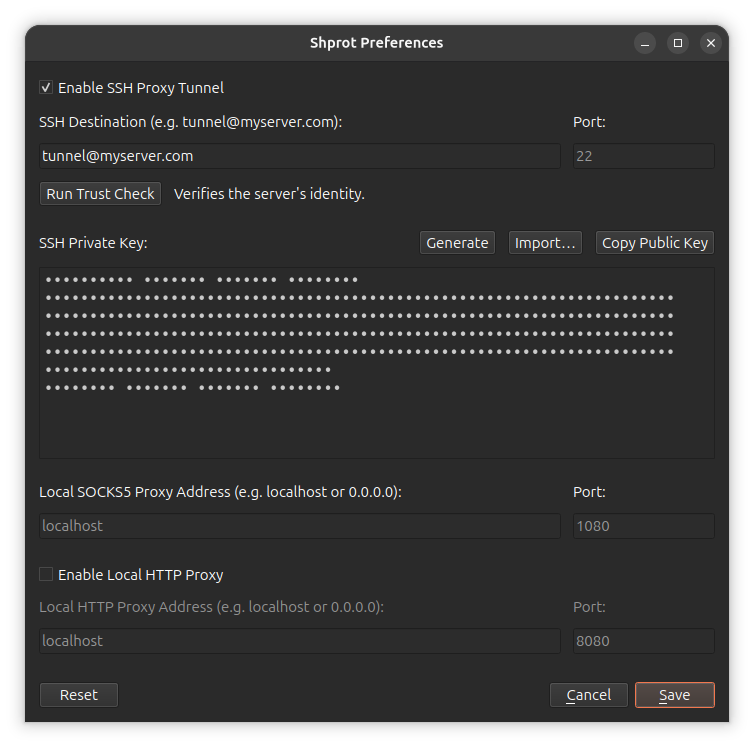
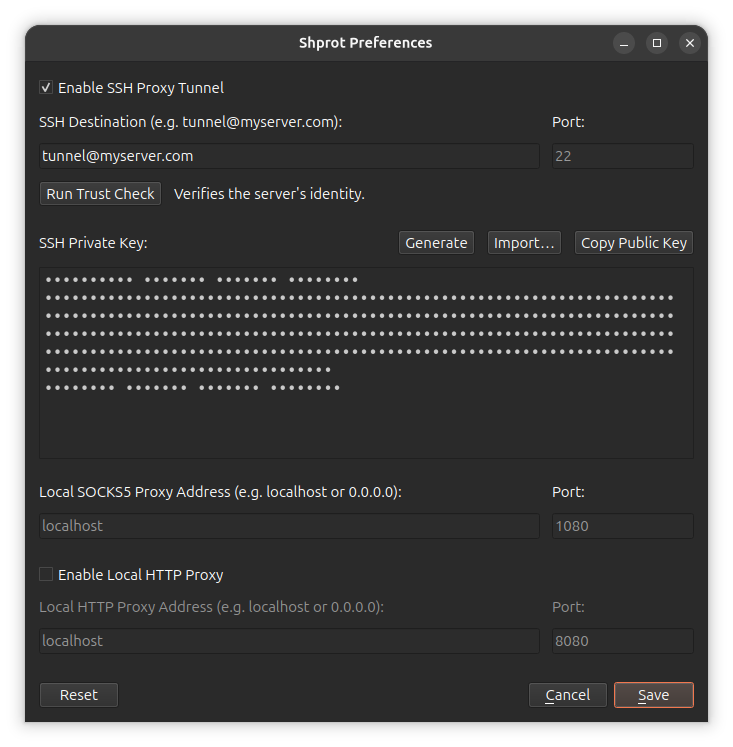
Site screenshots for all interface languages, tray menu of Arabic and Persian taken in a mirrored GNOME Shell session, no period after host name and key fingerprint in Arabic and Persian key verification

diff --git a/Sources/Translations/Shprot_fa.ts b/Sources/Translations/Shprot_fa.ts
@@ -187,7 +187,7 @@
     </message>
     <message>
         <source>The authenticity of host &lt;b&gt;%1&lt;/b&gt; can&apos;t be established.&lt;br&gt;&lt;br&gt;%2 key fingerprint is:&lt;br&gt;&lt;nobr&gt;SHA256:%3.&lt;/nobr&gt;</source>
-        <translation>اصالت میزبان &lt;b&gt;%1&lt;/b&gt; قابل تأیید نیست.&lt;br&gt;&lt;br&gt;اثر انگشت کلید %2:&lt;br&gt;&lt;nobr&gt;SHA256:%3.&lt;/nobr&gt;</translation>
+        <translation>اصالت میزبان &lt;b&gt;%1&lt;/b&gt; قابل تأیید نیست.&lt;br&gt;&lt;br&gt;اثر انگشت کلید %2 این است:&lt;br&gt;&lt;nobr&gt;SHA256:%3&lt;/nobr&gt;</translation>
     </message>
     <message>
         <source>Are you sure you want to continue connecting and trust this server?</source>
@@ -199,7 +199,7 @@
     </message>
     <message>
         <source>The server key fingerprint for &lt;b&gt;%1&lt;/b&gt; does not match the previously saved value. This could mean someone is intercepting your connection (Man-in-the-Middle attack) or the server administrator just reinstalled the OS.&lt;br&gt;&lt;br&gt;Saved %2 key fingerprint is:&lt;br&gt;&lt;nobr&gt;SHA256:%3.&lt;/nobr&gt;&lt;br&gt;&lt;br&gt;Received %4 key fingerprint is:&lt;br&gt;&lt;nobr&gt;SHA256:%5.&lt;/nobr&gt;</source>
-        <translation>اثر انگشت کلید سرور برای &lt;b&gt;%1&lt;/b&gt; با مقدار ذخیرهشده قبلی مطابقت ندارد. ممکن است کسی اتصال شما را شنود کند (حمله مرد میانی) یا مدیر سرور بهتازگی سیستمعامل را دوباره نصب کرده باشد.&lt;br&gt;&lt;br&gt;اثر انگشت ذخیرهشده کلید %2:&lt;br&gt;&lt;nobr&gt;SHA256:%3.&lt;/nobr&gt;&lt;br&gt;&lt;br&gt;اثر انگشت دریافتشده کلید %4:&lt;br&gt;&lt;nobr&gt;SHA256:%5.&lt;/nobr&gt;</translation>
+        <translation>اثر انگشت کلید سرور برای &lt;b&gt;%1&lt;/b&gt; با مقدار ذخیرهشده قبلی مطابقت ندارد. ممکن است کسی اتصال شما را شنود کند (حمله مرد میانی) یا مدیر سرور بهتازگی سیستمعامل را دوباره نصب کرده باشد.&lt;br&gt;&lt;br&gt;اثر انگشت ذخیرهشده کلید %2 این است:&lt;br&gt;&lt;nobr&gt;SHA256:%3&lt;/nobr&gt;&lt;br&gt;&lt;br&gt;اثر انگشت دریافتشده کلید %4 این است:&lt;br&gt;&lt;nobr&gt;SHA256:%5&lt;/nobr&gt;</translation>
     </message>
     <message>
         <source>If you are certain this change is legitimate, you can update the trusted key.</source>

diff --git a/Sources/Translations/Shprot_ar.ts b/Sources/Translations/Shprot_ar.ts
@@ -187,7 +187,7 @@
     </message>
     <message>
         <source>The authenticity of host &lt;b&gt;%1&lt;/b&gt; can&apos;t be established.&lt;br&gt;&lt;br&gt;%2 key fingerprint is:&lt;br&gt;&lt;nobr&gt;SHA256:%3.&lt;/nobr&gt;</source>
-        <translation>لا يمكن التحقق من أصالة المضيف &lt;b&gt;%1&lt;/b&gt;.&lt;br&gt;&lt;br&gt;بصمة مفتاح %2 هي:&lt;br&gt;&lt;nobr&gt;SHA256:%3.&lt;/nobr&gt;</translation>
+        <translation>لا يمكن التحقق من أصالة المضيف &lt;b&gt;%1&lt;/b&gt;&lt;br&gt;&lt;br&gt;بصمة مفتاح %2 هي:&lt;br&gt;&lt;nobr&gt;SHA256:%3&lt;/nobr&gt;</translation>
     </message>
     <message>
         <source>Are you sure you want to continue connecting and trust this server?</source>
@@ -199,7 +199,7 @@
     </message>
     <message>
         <source>The server key fingerprint for &lt;b&gt;%1&lt;/b&gt; does not match the previously saved value. This could mean someone is intercepting your connection (Man-in-the-Middle attack) or the server administrator just reinstalled the OS.&lt;br&gt;&lt;br&gt;Saved %2 key fingerprint is:&lt;br&gt;&lt;nobr&gt;SHA256:%3.&lt;/nobr&gt;&lt;br&gt;&lt;br&gt;Received %4 key fingerprint is:&lt;br&gt;&lt;nobr&gt;SHA256:%5.&lt;/nobr&gt;</source>
-        <translation>بصمة مفتاح الخادم &lt;b&gt;%1&lt;/b&gt; لا تطابق القيمة المحفوظة سابقًا. قد يعني هذا أن شخصًا ما يعترض اتصالك (هجوم الوسيط) أو أن مسؤول الخادم أعاد تثبيت نظام التشغيل للتو.&lt;br&gt;&lt;br&gt;بصمة مفتاح %2 المحفوظة هي:&lt;br&gt;&lt;nobr&gt;SHA256:%3.&lt;/nobr&gt;&lt;br&gt;&lt;br&gt;بصمة مفتاح %4 المستلمة هي:&lt;br&gt;&lt;nobr&gt;SHA256:%5.&lt;/nobr&gt;</translation>
+        <translation>بصمة مفتاح الخادم &lt;b&gt;%1&lt;/b&gt; لا تطابق القيمة المحفوظة سابقًا. قد يعني هذا أن شخصًا ما يعترض اتصالك (هجوم الوسيط) أو أن مسؤول الخادم أعاد تثبيت نظام التشغيل للتو.&lt;br&gt;&lt;br&gt;بصمة مفتاح %2 المحفوظة هي:&lt;br&gt;&lt;nobr&gt;SHA256:%3&lt;/nobr&gt;&lt;br&gt;&lt;br&gt;بصمة مفتاح %4 المستلمة هي:&lt;br&gt;&lt;nobr&gt;SHA256:%5&lt;/nobr&gt;</translation>
     </message>
     <message>
         <source>If you are certain this change is legitimate, you can update the trusted key.</source>

diff --git a/README.md b/README.md
@@ -158,7 +158,7 @@ Shprot operates completely independently of your system's global SSH configurati
     <picture>
         <source media="(prefers-color-scheme: dark)" srcset="Assets/Screenshot-Dark.png">
         <source media="(prefers-color-scheme: light)" srcset="Assets/Screenshot-Light.png">
-        <img alt="Shprot Interface Overview" src="Assets/Screenshot-Light.png" width="754" height="747">
+        <img alt="Shprot Interface Overview" src="Assets/Screenshot-Light.png" width="733" height="747">
     </picture>
 </div>
 
